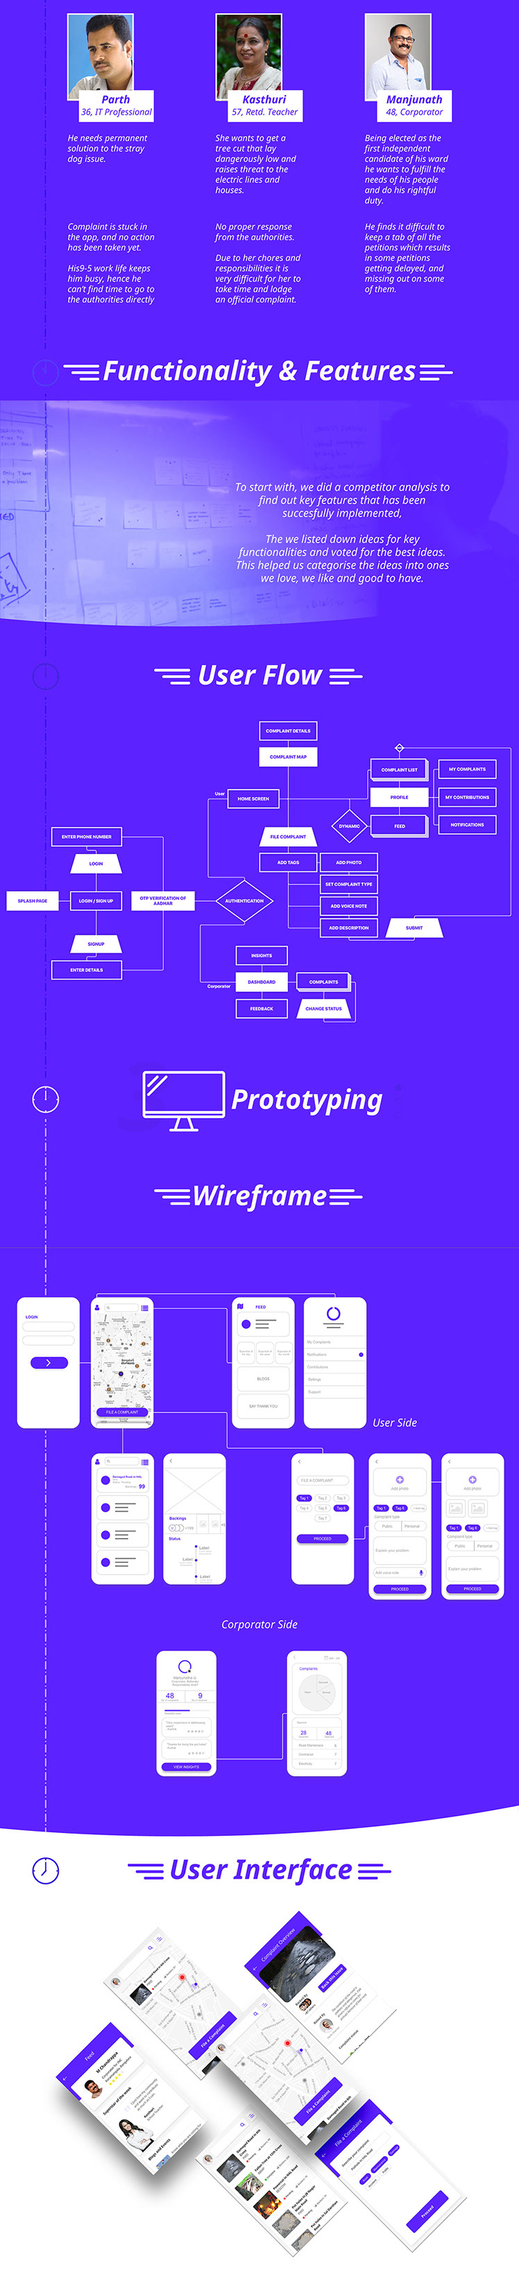
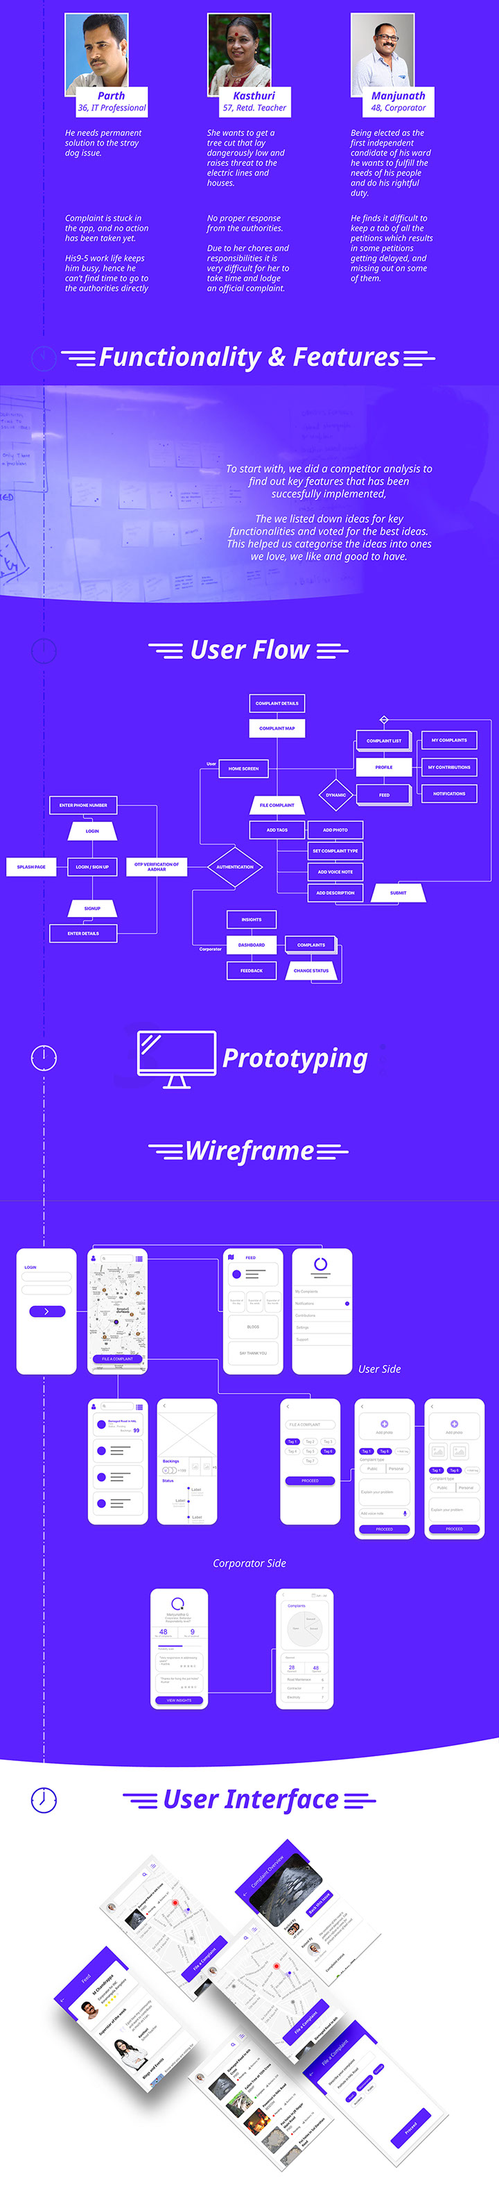
DHWANI update

diff --git a/dhwani.html b/dhwani.html
@@ -19,11 +19,11 @@ if(typeof Muse == "undefined") window.Muse = {}; window.Muse.assets = {"required
   <!-- CSS -->
   <link rel="stylesheet" type="text/css" href="css/site_global.css?crc=444006867"/>
   <link rel="stylesheet" type="text/css" href="css/master_projects.css?crc=3852109067"/>
-  <link rel="stylesheet" type="text/css" href="css/dhwani.css?crc=375365956" id="pagesheet"/>
+  <link rel="stylesheet" type="text/css" href="css/dhwani.css?crc=266295084" id="pagesheet"/>
   <!-- IE-only CSS -->
   <!--[if lt IE 9]>
   <link rel="stylesheet" type="text/css" href="css/nomq_preview_master_projects.css?crc=3824530138"/>
-  <link rel="stylesheet" type="text/css" href="css/nomq_dhwani.css?crc=4198243107" id="nomq_pagesheet"/>
+  <link rel="stylesheet" type="text/css" href="css/nomq_dhwani.css?crc=292691231" id="nomq_pagesheet"/>
   <![endif]-->
     <!--HTML Widget code-->
   
@@ -54,21 +54,21 @@ if(typeof Muse == "undefined") window.Muse = {}; window.Muse.assets = {"required
        <img class="block temp_no_img_src" id="u35457_img" data-orig-src="images/siyan-dhwani-2-crop-u35457.jpg?crc=478514797" alt="" data-heightwidthratio="4.395" data-image-width="1800" data-image-height="7911" src="images/blank.gif?crc=4208392903"/>
       </div>
      </div>
-     <div class="clearfix colelem" id="u36091"><!-- group -->
-      <div class="rounded-corners clip_frame grpelem" id="u35469"><!-- image -->
-       <img class="block temp_no_img_src" id="u35469_img" data-orig-src="images/siyan-dhwani-3-crop-u35469.jpg?crc=355542005" alt="" data-heightwidthratio="2.0566666666666666" data-image-width="1800" data-image-height="3702" src="images/blank.gif?crc=4208392903"/>
+     <div class="clearfix colelem" id="u36933"><!-- group -->
+      <div class="clip_frame grpelem" id="u36882"><!-- image -->
+       <img class="block temp_no_img_src" id="u36882_img" data-orig-src="images/siyan-dhwani-3-1-crop-u36882.jpg?crc=111417723" alt="" data-heightwidthratio="2.3516666666666666" data-image-width="1800" data-image-height="4233" src="images/blank.gif?crc=4208392903"/>
       </div>
       <div class="clip_frame grpelem" id="u35496"><!-- image -->
        <img class="block temp_no_img_src" id="u35496_img" data-orig-src="images/animation-siyan-3.gif?crc=327924768" alt="" data-heightwidthratio="1.6004056795131847" data-image-width="493" data-image-height="789" src="images/blank.gif?crc=4208392903"/>
       </div>
-      <div class="clip_frame grpelem" id="u35507"><!-- image -->
-       <img class="block temp_no_img_src" id="u35507_img" data-orig-src="images/animation-siyan-2.gif?crc=87351778" alt="" data-heightwidthratio="1.6" data-image-width="500" data-image-height="800" src="images/blank.gif?crc=4208392903"/>
-      </div>
       <div class="clip_frame grpelem" id="u35516"><!-- image -->
        <img class="block temp_no_img_src" id="u35516_img" data-orig-src="images/animation-siyan-4.gif?crc=4252287175" alt="" data-heightwidthratio="1.6" data-image-width="500" data-image-height="800" src="images/blank.gif?crc=4208392903"/>
       </div>
+      <div class="clip_frame grpelem" id="u35507"><!-- image -->
+       <img class="block temp_no_img_src" id="u35507_img" data-orig-src="images/animation-siyan-2.gif?crc=87351778" alt="" data-heightwidthratio="1.6" data-image-width="500" data-image-height="800" src="images/blank.gif?crc=4208392903"/>
+      </div>
      </div>
-     <div class="verticalspacer" data-offset-top="19464" data-content-above-spacer="19463" data-content-below-spacer="49" data-sizePolicy="fixed" data-pintopage="page_fixedLeft"></div>
+     <div class="verticalspacer" data-offset-top="19995" data-content-above-spacer="19994" data-content-below-spacer="49" data-sizePolicy="fixed" data-pintopage="page_fixedLeft"></div>
     </div>
    </div>
   </div>
@@ -78,26 +78,24 @@ if(typeof Muse == "undefined") window.Muse = {}; window.Muse.assets = {"required
     <div class="rounded-corners clip_frame colelem temp_no_id" data-orig-id="u36060"><!-- image -->
      <img class="block temp_no_id temp_no_img_src" data-orig-src="images/siyan-dhwani-1-crop-u360602.jpg?crc=231077618" alt="" data-heightwidthratio="4.348888888888889" data-image-width="1350" data-image-height="5871" data-orig-id="u36060_img" src="images/blank.gif?crc=4208392903"/>
     </div>
-    <div class="clearfix colelem" id="pu35457"><!-- group -->
-     <div class="clip_frame grpelem temp_no_id" data-orig-id="u35457"><!-- image -->
-      <img class="block temp_no_id temp_no_img_src" data-orig-src="images/siyan-dhwani-2-crop-u354572.jpg?crc=3820100597" alt="" data-heightwidthratio="4.395555555555555" data-image-width="1350" data-image-height="5934" data-orig-id="u35457_img" src="images/blank.gif?crc=4208392903"/>
+    <div class="clip_frame colelem temp_no_id" data-orig-id="u35457"><!-- image -->
+     <img class="block temp_no_id temp_no_img_src" data-orig-src="images/siyan-dhwani-2-crop-u354572.jpg?crc=3820100597" alt="" data-heightwidthratio="4.395555555555555" data-image-width="1350" data-image-height="5934" data-orig-id="u35457_img" src="images/blank.gif?crc=4208392903"/>
+    </div>
+    <div class="clearfix colelem temp_no_id" data-orig-id="u36933"><!-- group -->
+     <div class="clip_frame grpelem temp_no_id" data-orig-id="u36882"><!-- image -->
+      <img class="block temp_no_id temp_no_img_src" data-orig-src="images/siyan-dhwani-3-1-crop-u368822.jpg?crc=420097442" alt="" data-heightwidthratio="2.3518518518518516" data-image-width="1350" data-image-height="3175" data-orig-id="u36882_img" src="images/blank.gif?crc=4208392903"/>
      </div>
-     <div class="clearfix grpelem temp_no_id" data-orig-id="u36091"><!-- group -->
-      <div class="rounded-corners clip_frame grpelem temp_no_id" data-orig-id="u35469"><!-- image -->
-       <img class="block temp_no_id temp_no_img_src" data-orig-src="images/siyan-dhwani-31350x2776.jpg?crc=4002915526" alt="" data-heightwidthratio="2.0562962962962965" data-image-width="1350" data-image-height="2776" data-orig-id="u35469_img" src="images/blank.gif?crc=4208392903"/>
-      </div>
-      <div class="clip_frame grpelem temp_no_id" data-orig-id="u35496"><!-- image -->
-       <img class="block temp_no_id temp_no_img_src" data-orig-src="images/animation-siyan-3.gif?crc=327924768" alt="" data-heightwidthratio="1.598314606741573" data-image-width="356" data-image-height="569" data-orig-id="u35496_img" src="images/blank.gif?crc=4208392903"/>
-      </div>
-      <div class="clip_frame grpelem temp_no_id" data-orig-id="u35507"><!-- image -->
-       <img class="block temp_no_id temp_no_img_src" data-orig-src="images/animation-siyan-2.gif?crc=87351778" alt="" data-heightwidthratio="1.6011080332409973" data-image-width="361" data-image-height="578" data-orig-id="u35507_img" src="images/blank.gif?crc=4208392903"/>
-      </div>
-      <div class="clip_frame grpelem temp_no_id" data-orig-id="u35516"><!-- image -->
-       <img class="block temp_no_id temp_no_img_src" data-orig-src="images/animation-siyan-4.gif?crc=4252287175" alt="" data-heightwidthratio="1.6011080332409973" data-image-width="361" data-image-height="578" data-orig-id="u35516_img" src="images/blank.gif?crc=4208392903"/>
-      </div>
+     <div class="clip_frame grpelem temp_no_id" data-orig-id="u35496"><!-- image -->
+      <img class="block temp_no_id temp_no_img_src" data-orig-src="images/animation-siyan-3.gif?crc=327924768" alt="" data-heightwidthratio="1.598314606741573" data-image-width="356" data-image-height="569" data-orig-id="u35496_img" src="images/blank.gif?crc=4208392903"/>
+     </div>
+     <div class="clip_frame grpelem temp_no_id" data-orig-id="u35516"><!-- image -->
+      <img class="block temp_no_id temp_no_img_src" data-orig-src="images/animation-siyan-4.gif?crc=4252287175" alt="" data-heightwidthratio="1.6011080332409973" data-image-width="361" data-image-height="578" data-orig-id="u35516_img" src="images/blank.gif?crc=4208392903"/>
+     </div>
+     <div class="clip_frame grpelem temp_no_id" data-orig-id="u35507"><!-- image -->
+      <img class="block temp_no_id temp_no_img_src" data-orig-src="images/animation-siyan-2.gif?crc=87351778" alt="" data-heightwidthratio="1.6011080332409973" data-image-width="361" data-image-height="578" data-orig-id="u35507_img" src="images/blank.gif?crc=4208392903"/>
      </div>
     </div>
-    <div class="verticalspacer" data-offset-top="14619" data-content-above-spacer="14618" data-content-below-spacer="19" data-sizePolicy="fixed" data-pintopage="page_fixedLeft"></div>
+    <div class="verticalspacer" data-offset-top="15062" data-content-above-spacer="15062" data-content-below-spacer="19" data-sizePolicy="fixed" data-pintopage="page_fixedLeft"></div>
    </div>
   </div>
   <div class="breakpoint" id="bp_960" data-min-width="769" data-max-width="960"><!-- responsive breakpoint node -->
@@ -110,21 +108,21 @@ if(typeof Muse == "undefined") window.Muse = {}; window.Muse.assets = {"required
      <div class="clip_frame colelem temp_no_id" data-orig-id="u35457"><!-- image -->
       <img class="block temp_no_id temp_no_img_src" data-orig-src="images/siyan-dhwani-2-crop-u354573.jpg?crc=26468564" alt="" data-heightwidthratio="4.395555555555555" data-image-width="900" data-image-height="3956" data-orig-id="u35457_img" src="images/blank.gif?crc=4208392903"/>
      </div>
-     <div class="clearfix colelem temp_no_id" data-orig-id="u36091"><!-- group -->
-      <div class="rounded-corners clip_frame grpelem temp_no_id" data-orig-id="u35469"><!-- image -->
-       <img class="block temp_no_id temp_no_img_src" data-orig-src="images/siyan-dhwani-3900x1851.jpg?crc=4269956103" alt="" data-heightwidthratio="2.0566666666666666" data-image-width="900" data-image-height="1851" data-orig-id="u35469_img" src="images/blank.gif?crc=4208392903"/>
+     <div class="clearfix colelem temp_no_id" data-orig-id="u36933"><!-- group -->
+      <div class="clip_frame grpelem temp_no_id" data-orig-id="u36882"><!-- image -->
+       <img class="block temp_no_id temp_no_img_src" data-orig-src="images/siyan-dhwani-3-1-crop-u368823.jpg?crc=3763909581" alt="" data-heightwidthratio="2.352222222222222" data-image-width="900" data-image-height="2117" data-orig-id="u36882_img" src="images/blank.gif?crc=4208392903"/>
       </div>
       <div class="clip_frame grpelem temp_no_id" data-orig-id="u35496"><!-- image -->
        <img class="block temp_no_id temp_no_img_src" data-orig-src="images/animation-siyan-3.gif?crc=327924768" alt="" data-heightwidthratio="1.6033755274261603" data-image-width="237" data-image-height="380" data-orig-id="u35496_img" src="images/blank.gif?crc=4208392903"/>
       </div>
-      <div class="clip_frame grpelem temp_no_id" data-orig-id="u35507"><!-- image -->
-       <img class="block temp_no_id temp_no_img_src" data-orig-src="images/animation-siyan-2.gif?crc=87351778" alt="" data-heightwidthratio="1.5975103734439835" data-image-width="241" data-image-height="385" data-orig-id="u35507_img" src="images/blank.gif?crc=4208392903"/>
-      </div>
       <div class="clip_frame grpelem temp_no_id" data-orig-id="u35516"><!-- image -->
        <img class="block temp_no_id temp_no_img_src" data-orig-src="images/animation-siyan-4.gif?crc=4252287175" alt="" data-heightwidthratio="1.5975103734439835" data-image-width="241" data-image-height="385" data-orig-id="u35516_img" src="images/blank.gif?crc=4208392903"/>
       </div>
+      <div class="clip_frame grpelem temp_no_id" data-orig-id="u35507"><!-- image -->
+       <img class="block temp_no_id temp_no_img_src" data-orig-src="images/animation-siyan-2.gif?crc=87351778" alt="" data-heightwidthratio="1.5975103734439835" data-image-width="241" data-image-height="385" data-orig-id="u35507_img" src="images/blank.gif?crc=4208392903"/>
+      </div>
      </div>
-     <div class="verticalspacer" data-offset-top="11737" data-content-above-spacer="11736" data-content-below-spacer="11" data-sizePolicy="fixed" data-pintopage="page_fixedLeft"></div>
+     <div class="verticalspacer" data-offset-top="12002" data-content-above-spacer="12001" data-content-below-spacer="11" data-sizePolicy="fixed" data-pintopage="page_fixedLeft"></div>
     </div>
    </div>
   </div>
@@ -135,23 +133,23 @@ if(typeof Muse == "undefined") window.Muse = {}; window.Muse.assets = {"required
      <img class="block temp_no_id temp_no_img_src" data-orig-src="images/siyan-dhwani-1-crop-u360604.jpg?crc=3860886946" alt="" data-heightwidthratio="4.348611111111111" data-image-width="720" data-image-height="3131" data-orig-id="u36060_img" src="images/blank.gif?crc=4208392903"/>
     </div>
     <div class="clip_frame colelem temp_no_id" data-orig-id="u35457"><!-- image -->
-     <img class="block temp_no_id temp_no_img_src" data-orig-src="images/siyan-dhwani-2-crop-u354574.jpg?crc=3957740755" alt="" data-heightwidthratio="4.39572192513369" data-image-width="748" data-image-height="3288" data-orig-id="u35457_img" src="images/blank.gif?crc=4208392903"/>
+     <img class="block temp_no_id temp_no_img_src" data-orig-src="images/siyan-dhwani-2-crop-u354574.jpg?crc=321427869" alt="" data-heightwidthratio="4.395833333333333" data-image-width="720" data-image-height="3165" data-orig-id="u35457_img" src="images/blank.gif?crc=4208392903"/>
     </div>
-    <div class="clearfix colelem temp_no_id" data-orig-id="u36091"><!-- group -->
-     <div class="rounded-corners clip_frame grpelem temp_no_id" data-orig-id="u35469"><!-- image -->
-      <img class="block temp_no_id temp_no_img_src" data-orig-src="images/siyan-dhwani-3748x1539.jpg?crc=414083071" alt="" data-heightwidthratio="2.056149732620321" data-image-width="748" data-image-height="1538" data-orig-id="u35469_img" src="images/blank.gif?crc=4208392903"/>
+    <div class="clearfix colelem temp_no_id" data-orig-id="u36933"><!-- group -->
+     <div class="clip_frame grpelem temp_no_id" data-orig-id="u36882"><!-- image -->
+      <img class="block temp_no_id temp_no_img_src" data-orig-src="images/siyan-dhwani-3-1-crop-u368824.jpg?crc=187348278" alt="" data-heightwidthratio="2.3513888888888888" data-image-width="720" data-image-height="1693" data-orig-id="u36882_img" src="images/blank.gif?crc=4208392903"/>
      </div>
      <div class="clip_frame grpelem temp_no_id" data-orig-id="u35496"><!-- image -->
       <img class="block temp_no_id temp_no_img_src" data-orig-src="images/animation-siyan-3.gif?crc=327924768" alt="" data-heightwidthratio="1.6040609137055837" data-image-width="197" data-image-height="316" data-orig-id="u35496_img" src="images/blank.gif?crc=4208392903"/>
      </div>
-     <div class="clip_frame grpelem temp_no_id" data-orig-id="u35507"><!-- image -->
-      <img class="block temp_no_id temp_no_img_src" data-orig-src="images/animation-siyan-2.gif?crc=87351778" alt="" data-heightwidthratio="1.6" data-image-width="200" data-image-height="320" data-orig-id="u35507_img" src="images/blank.gif?crc=4208392903"/>
-     </div>
      <div class="clip_frame grpelem temp_no_id" data-orig-id="u35516"><!-- image -->
       <img class="block temp_no_id temp_no_img_src" data-orig-src="images/animation-siyan-4.gif?crc=4252287175" alt="" data-heightwidthratio="1.6" data-image-width="200" data-image-height="320" data-orig-id="u35516_img" src="images/blank.gif?crc=4208392903"/>
      </div>
+     <div class="clip_frame grpelem temp_no_id" data-orig-id="u35507"><!-- image -->
+      <img class="block temp_no_id temp_no_img_src" data-orig-src="images/animation-siyan-2.gif?crc=87351778" alt="" data-heightwidthratio="1.6" data-image-width="200" data-image-height="320" data-orig-id="u35507_img" src="images/blank.gif?crc=4208392903"/>
+     </div>
     </div>
-    <div class="verticalspacer" data-offset-top="8018" data-content-above-spacer="8017" data-content-below-spacer="10" data-sizePolicy="fixed" data-pintopage="page_fixedLeft"></div>
+    <div class="verticalspacer" data-offset-top="8050" data-content-above-spacer="8049" data-content-below-spacer="0" data-sizePolicy="fixed" data-pintopage="page_fixedLeft"></div>
    </div>
   </div>
   <div class="breakpoint" id="bp_480" data-min-width="321" data-max-width="480"><!-- responsive breakpoint node -->
@@ -162,24 +160,24 @@ if(typeof Muse == "undefined") window.Muse = {}; window.Muse.assets = {"required
       <img class="block temp_no_id temp_no_img_src" data-orig-src="images/siyan-dhwani-1-crop-u360605.jpg?crc=3996313336" alt="" data-heightwidthratio="4.348888888888889" data-image-width="450" data-image-height="1957" data-orig-id="u36060_img" src="images/blank.gif?crc=4208392903"/>
      </div>
      <div class="clip_frame grpelem temp_no_id" data-orig-id="u35457"><!-- image -->
-      <img class="block temp_no_id temp_no_img_src" data-orig-src="images/siyan-dhwani-2-crop-u354575.jpg?crc=4189182908" alt="" data-heightwidthratio="4.391025641025641" data-image-width="468" data-image-height="2055" data-orig-id="u35457_img" src="images/blank.gif?crc=4208392903"/>
+      <img class="block temp_no_id temp_no_img_src" data-orig-src="images/siyan-dhwani-2-crop-u354575.jpg?crc=25384640" alt="" data-heightwidthratio="4.395555555555555" data-image-width="450" data-image-height="1978" data-orig-id="u35457_img" src="images/blank.gif?crc=4208392903"/>
      </div>
     </div>
-    <div class="clearfix colelem temp_no_id" data-orig-id="u36091"><!-- group -->
-     <div class="rounded-corners clip_frame grpelem temp_no_id" data-orig-id="u35469"><!-- image -->
-      <img class="block temp_no_id temp_no_img_src" data-orig-src="images/siyan-dhwani-3468x962.jpg?crc=4010558170" alt="" data-heightwidthratio="2.0534188034188032" data-image-width="468" data-image-height="961" data-orig-id="u35469_img" src="images/blank.gif?crc=4208392903"/>
+    <div class="clearfix colelem temp_no_id" data-orig-id="u36933"><!-- group -->
+     <div class="clip_frame grpelem temp_no_id" data-orig-id="u36882"><!-- image -->
+      <img class="block temp_no_id temp_no_img_src" data-orig-src="images/siyan-dhwani-3-1450x1059.jpg?crc=3815587152" alt="" data-heightwidthratio="2.351111111111111" data-image-width="450" data-image-height="1058" data-orig-id="u36882_img" src="images/blank.gif?crc=4208392903"/>
      </div>
      <div class="clip_frame grpelem temp_no_id" data-orig-id="u35496"><!-- image -->
       <img class="block temp_no_id temp_no_img_src" data-orig-src="images/animation-siyan-3.gif?crc=327924768" alt="" data-heightwidthratio="1.6016260162601625" data-image-width="123" data-image-height="197" data-orig-id="u35496_img" src="images/blank.gif?crc=4208392903"/>
      </div>
-     <div class="clip_frame grpelem temp_no_id" data-orig-id="u35507"><!-- image -->
-      <img class="block temp_no_id temp_no_img_src" data-orig-src="images/animation-siyan-2.gif?crc=87351778" alt="" data-heightwidthratio="1.6" data-image-width="125" data-image-height="200" data-orig-id="u35507_img" src="images/blank.gif?crc=4208392903"/>
-     </div>
      <div class="clip_frame grpelem temp_no_id" data-orig-id="u35516"><!-- image -->
       <img class="block temp_no_id temp_no_img_src" data-orig-src="images/animation-siyan-4.gif?crc=4252287175" alt="" data-heightwidthratio="1.6" data-image-width="125" data-image-height="200" data-orig-id="u35516_img" src="images/blank.gif?crc=4208392903"/>
      </div>
+     <div class="clip_frame grpelem temp_no_id" data-orig-id="u35507"><!-- image -->
+      <img class="block temp_no_id temp_no_img_src" data-orig-src="images/animation-siyan-2.gif?crc=87351778" alt="" data-heightwidthratio="1.6" data-image-width="125" data-image-height="200" data-orig-id="u35507_img" src="images/blank.gif?crc=4208392903"/>
+     </div>
     </div>
-    <div class="verticalspacer" data-offset-top="5011" data-content-above-spacer="5010" data-content-below-spacer="9" data-sizePolicy="fixed" data-pintopage="page_fixedLeft"></div>
+    <div class="verticalspacer" data-offset-top="5032" data-content-above-spacer="5031" data-content-below-spacer="9" data-sizePolicy="fixed" data-pintopage="page_fixedLeft"></div>
    </div>
   </div>
   <div class="breakpoint" id="bp_320" data-max-width="320"><!-- responsive breakpoint node -->
@@ -193,21 +191,21 @@ if(typeof Muse == "undefined") window.Muse = {}; window.Muse.assets = {"required
       <img class="block temp_no_id temp_no_img_src" data-orig-src="images/siyan-dhwani-2-crop-u354576.jpg?crc=225251879" alt="" data-heightwidthratio="4.391025641025641" data-image-width="312" data-image-height="1370" data-orig-id="u35457_img" src="images/blank.gif?crc=4208392903"/>
      </div>
     </div>
-    <div class="clearfix colelem temp_no_id" data-orig-id="u36091"><!-- group -->
-     <div class="rounded-corners clip_frame grpelem temp_no_id" data-orig-id="u35469"><!-- image -->
-      <img class="block temp_no_id temp_no_img_src" data-orig-src="images/siyan-dhwani-3312x641.jpg?crc=3997512535" alt="" data-heightwidthratio="2.0544871794871793" data-image-width="312" data-image-height="641" data-orig-id="u35469_img" src="images/blank.gif?crc=4208392903"/>
+    <div class="clearfix colelem temp_no_id" data-orig-id="u36933"><!-- group -->
+     <div class="clip_frame grpelem temp_no_id" data-orig-id="u36882"><!-- image -->
+      <img class="block temp_no_id temp_no_img_src" data-orig-src="images/siyan-dhwani-3-1300x706.jpg?crc=281623946" alt="" data-heightwidthratio="2.35" data-image-width="300" data-image-height="705" data-orig-id="u36882_img" src="images/blank.gif?crc=4208392903"/>
      </div>
      <div class="clip_frame grpelem temp_no_id" data-orig-id="u35496"><!-- image -->
       <img class="block temp_no_id temp_no_img_src" data-orig-src="images/animation-siyan-3.gif?crc=327924768" alt="" data-heightwidthratio="1.5975609756097562" data-image-width="82" data-image-height="131" data-orig-id="u35496_img" src="images/blank.gif?crc=4208392903"/>
      </div>
-     <div class="clip_frame grpelem temp_no_id" data-orig-id="u35507"><!-- image -->
-      <img class="block temp_no_id temp_no_img_src" data-orig-src="images/animation-siyan-2.gif?crc=87351778" alt="" data-heightwidthratio="1.6024096385542168" data-image-width="83" data-image-height="133" data-orig-id="u35507_img" src="images/blank.gif?crc=4208392903"/>
-     </div>
      <div class="clip_frame grpelem temp_no_id" data-orig-id="u35516"><!-- image -->
       <img class="block temp_no_id temp_no_img_src" data-orig-src="images/animation-siyan-4.gif?crc=4252287175" alt="" data-heightwidthratio="1.6024096385542168" data-image-width="83" data-image-height="133" data-orig-id="u35516_img" src="images/blank.gif?crc=4208392903"/>
      </div>
+     <div class="clip_frame grpelem temp_no_id" data-orig-id="u35507"><!-- image -->
+      <img class="block temp_no_id temp_no_img_src" data-orig-src="images/animation-siyan-2.gif?crc=87351778" alt="" data-heightwidthratio="1.6024096385542168" data-image-width="83" data-image-height="133" data-orig-id="u35507_img" src="images/blank.gif?crc=4208392903"/>
+     </div>
     </div>
-    <div class="verticalspacer" data-offset-top="3354" data-content-above-spacer="3353" data-content-below-spacer="9" data-sizePolicy="fixed" data-pintopage="page_fixedLeft"></div>
+    <div class="verticalspacer" data-offset-top="3418" data-content-above-spacer="3418" data-content-below-spacer="15" data-sizePolicy="fixed" data-pintopage="page_fixedLeft"></div>
    </div>
   </div>
   <!-- JS includes -->

diff --git a/css/dhwani.css b/css/dhwani.css
@@ -1,1 +1,1 @@
-.version.dhwani{color:#000016;background-color:#5FA144;}#page{background-color:transparent;border-color:#000000;background-image:none;margin-left:auto;margin-right:auto;border-width:0px;width:100%;z-index:1;}#u36178{width:60px;z-index:2;position:relative;min-height:60px;}#u36060{border-radius:10px 10px 0px 0px ;z-index:3;background-color:transparent;position:relative;}#u36060 .clip_frame{-webkit-border-radius:10px 10px 0px 0px;}#u35457{background-color:transparent;z-index:5;position:relative;}#u36091{border-color:transparent;border-width:0px;background-color:transparent;z-index:7;position:relative;}#u35469{border-radius:0px 0px 10px 10px ;z-index:8;margin-right:-10000px;width:100%;background-color:transparent;position:relative;}#u35469 .clip_frame{-webkit-border-radius:0px 0px 10px 10px;}#u35496{margin-right:-10000px;background-color:transparent;z-index:10;position:relative;}#u35507{margin-right:-10000px;background-color:transparent;z-index:12;position:relative;}#u35516{margin-right:-10000px;background-color:transparent;z-index:14;position:relative;}#u36060_img,#u35457_img,#u35469_img,#u35496_img,#u35507_img,#u35516_img{width:100%;}.html{background-color:#F2F2F2;}body{position:relative;}@media (min-width: 1441px), print{#muse_css_mq{background-color:#FFFFFF;}#bp_infinity.active{display:block;}#page{min-height:709.6951807228943px;padding-bottom:0px;max-width:1920px;}#page_position_content{margin-top:-78px;width:100%;}#u36178{margin-left:48.86%;}#pu36060{z-index:3;margin-top:78px;width:93.75%;margin-left:3.13%;}#u36060{margin-right:-10000px;width:100%;}#u35457{margin-right:-10000px;margin-top:7792px;width:100%;}#u36091{width:93.75%;margin-left:3.13%;}#u35496{margin-top:1069px;width:27.39%;left:51.5%;}#u35507{margin-top:292px;width:27.78%;left:23.73%;}#u35516{margin-top:1923px;width:27.78%;left:23.73%;}.css_verticalspacer .verticalspacer{height:calc(100vh - 19512px);}body{padding-bottom:50px;}}@media (min-width: 961px) and (max-width: 1440px){#muse_css_mq{background-color:#0005a0;}#bp_1440.active{display:block;}#page{min-height:777px;max-width:1440px;}#u36178{margin-left:51.74%;}#u36060{width:93.75%;margin-left:3.13%;}#pu35457{z-index:5;width:93.75%;margin-left:3.13%;}#u35457{margin-right:-10000px;width:100%;}#u36091{margin-right:-10000px;margin-top:5913px;width:100%;}#u35496{margin-top:836px;width:26.38%;left:49.56%;}#u35507{margin-top:213px;width:26.75%;left:22.82%;}#u35516{margin-top:1369px;width:26.75%;left:22.82%;}.css_verticalspacer .verticalspacer{height:calc(100vh - 14637px);}body{overflow-x:hidden;padding-bottom:20px;}}@media (min-width: 769px) and (max-width: 960px){#muse_css_mq{background-color:#0003c0;}#bp_960.active{display:block;}#page{min-height:710px;max-width:960px;}#page_position_content{margin-top:-66px;width:100%;}#u36178{margin-left:39.07%;}#u36060{margin-top:66px;width:93.75%;margin-left:3.13%;}#u35457{width:93.75%;margin-left:3.13%;}#u36091{margin-top:1958px;width:93.75%;margin-left:3.13%;}#u35496{margin-top:836px;width:26.34%;left:49.56%;}#u35507{margin-top:213px;width:26.78%;left:22.89%;}#u35516{margin-top:1369px;width:26.78%;left:22.78%;}.css_verticalspacer .verticalspacer{height:calc(100vh - 11747px);}body{overflow-x:hidden;padding-bottom:12px;}}@media (min-width: 481px) and (max-width: 768px){#muse_css_mq{background-color:#000300;}#bp_768.active{display:block;}#page{min-height:710px;max-width:768px;}#u36178{margin-left:51.7%;}#u36060{width:93.75%;margin-left:3.13%;}#u35457,#u36091{margin-top:1px;width:97.4%;margin-left:1.31%;}#u35496{margin-top:408px;width:26.34%;left:49.6%;}#u35507{margin-top:111px;width:26.74%;left:22.87%;}#u35516{margin-top:752px;width:26.74%;left:22.87%;}.css_verticalspacer .verticalspacer{height:calc(100vh - 8027px);}body{overflow-x:hidden;padding-bottom:11px;}}@media (min-width: 321px) and (max-width: 480px){#muse_css_mq{background-color:#0001e0;}#bp_480.active{display:block;}#page{min-height:454.37022424461793px;padding-bottom:1px;max-width:480px;}#u36178{margin-left:51.67%;}#pu36060{z-index:3;width:97.5%;margin-left:1.25%;}#u36060{margin-right:-10000px;width:96.16%;left:1.93%;}#u35457{margin-right:-10000px;margin-top:1941px;width:100%;}#u36091{top:-6px;margin-bottom:-6px;width:97.5%;margin-left:1.25%;}#u35496{margin-top:279px;width:26.29%;left:49.58%;}#u35507{margin-top:72px;width:26.71%;left:22.87%;}#u35516{margin-top:473px;width:26.71%;left:22.87%;}.css_verticalspacer .verticalspacer{height:calc(100vh - 5019px);}body{overflow-x:hidden;padding-bottom:10px;}}@media (max-width: 320px){#muse_css_mq{background-color:#000140;}#bp_320.active{display:block;}#page{min-height:680px;max-width:320px;}#u36178{margin-left:51.88%;}#pu36060{z-index:3;width:97.5%;margin-left:1.25%;}#u36060{margin-right:-10000px;width:96.16%;left:1.93%;}#u35457{margin-right:-10000px;margin-top:1283px;width:100%;}#u36091{width:97.5%;margin-left:1.25%;}#u35496{margin-top:178px;width:26.29%;left:49.68%;}#u35507{margin-top:51px;width:26.61%;left:22.76%;}#u35516{margin-top:312px;width:26.61%;left:22.76%;}.css_verticalspacer .verticalspacer{height:calc(100vh - 3362px);}body{overflow-x:hidden;min-width:320px;padding-bottom:10px;}}
+.version.dhwani{color:#00000F;background-color:#DF572C;}#page{background-color:transparent;border-color:#000000;background-image:none;margin-left:auto;margin-right:auto;border-width:0px;width:100%;z-index:1;}#u36178{width:60px;z-index:2;position:relative;min-height:60px;}#u36060{border-radius:10px 10px 0px 0px ;z-index:3;background-color:transparent;position:relative;}#u36060 .clip_frame{-webkit-border-radius:10px 10px 0px 0px;}#u35457{background-color:transparent;z-index:5;position:relative;}#u36933{border-color:transparent;background-color:transparent;border-width:0px;width:93.75%;z-index:7;position:relative;}#u36882{margin-right:-10000px;background-color:transparent;z-index:8;position:relative;width:100%;}#u35496{margin-right:-10000px;background-color:transparent;z-index:10;position:relative;}#u35516{margin-right:-10000px;background-color:transparent;z-index:12;position:relative;}#u35507{margin-right:-10000px;background-color:transparent;z-index:14;position:relative;}#u36060_img,#u35457_img,#u36882_img,#u35496_img,#u35516_img,#u35507_img{width:100%;}.html{background-color:#F2F2F2;}body{position:relative;}@media (min-width: 1441px), print{#muse_css_mq{background-color:#FFFFFF;}#bp_infinity.active{display:block;}#page{min-height:709.5734213547657px;padding-bottom:0px;max-width:1920px;}#page_position_content{margin-top:-78px;width:100%;}#u36178{margin-left:48.86%;}#pu36060{z-index:3;margin-top:78px;width:93.75%;margin-left:3.13%;}#u36060{margin-right:-10000px;width:100%;}#u35457{margin-right:-10000px;margin-top:7792px;width:100%;}#u36933{margin-left:3.13%;}#u35496{margin-top:2128px;width:27.39%;left:58.17%;}#u35516{margin-top:1207px;width:27.78%;left:57.78%;}#u35507{margin-top:355px;width:27.78%;left:57.78%;}.css_verticalspacer .verticalspacer{height:calc(100vh - 20043px);}body{padding-bottom:50px;}}@media (min-width: 961px) and (max-width: 1440px){#muse_css_mq{background-color:#0005a0;}#bp_1440.active{display:block;}#page{min-height:776.8675660160752px;padding-bottom:0px;max-width:1440px;}#u36178{margin-left:51.74%;}#u36060,#u35457{width:93.75%;margin-left:3.13%;}#u36933{margin-top:25px;margin-left:3.13%;}#u35496{margin-top:1629px;width:26.38%;left:53.86%;}#u35516{margin-top:915px;width:26.75%;left:53.86%;}#u35507{margin-top:292px;width:26.75%;left:53.86%;}.css_verticalspacer .verticalspacer{height:calc(100vh - 15081px);}body{overflow-x:hidden;padding-bottom:20px;}}@media (min-width: 769px) and (max-width: 960px){#muse_css_mq{background-color:#0003c0;}#bp_960.active{display:block;}#page{min-height:709.4117106773829px;padding-bottom:1px;max-width:960px;}#page_position_content{margin-top:-66px;width:100%;}#u36178{margin-left:39.07%;}#u36060{margin-top:66px;width:93.75%;margin-left:3.13%;}#u35457{margin-top:1957px;width:93.75%;margin-left:3.13%;}#u36933{margin-left:3.13%;}#u35496{margin-top:1083px;width:26.34%;left:53.89%;}#u35516{margin-top:618px;width:26.78%;left:53.89%;}#u35507{margin-top:256px;width:26.78%;left:53.89%;}.css_verticalspacer .verticalspacer{height:calc(100vh - 12012px);}body{overflow-x:hidden;padding-bottom:12px;}}@media (min-width: 481px) and (max-width: 768px){#muse_css_mq{background-color:#000300;}#bp_768.active{display:block;}#page{min-height:8049px;max-width:768px;}#u36178{margin-left:51.7%;}#u36060{width:93.75%;margin-left:3.13%;}#u35457{margin-top:1px;width:93.75%;margin-left:3.13%;}#u36933{margin-top:1px;margin-left:3.13%;}#u35496{margin-top:871px;width:27.37%;left:51.53%;}#u35516{margin-top:486px;width:27.78%;left:51.12%;}#u35507{margin-top:176px;width:27.78%;left:51.12%;}.css_verticalspacer .verticalspacer{height:calc(100vh - 8049px);}body{overflow-x:hidden;}}@media (min-width: 321px) and (max-width: 480px){#muse_css_mq{background-color:#0001e0;}#bp_480.active{display:block;}#page{min-height:455px;max-width:480px;}#u36178{margin-left:51.67%;}#pu36060{z-index:3;width:93.75%;margin-left:3.13%;}#u36060{margin-right:-10000px;width:100%;}#u35457{margin-right:-10000px;margin-top:1941px;width:100%;}#u36933{top:-5px;margin-bottom:-5px;margin-left:3.13%;}#u35496{margin-top:529px;width:27.34%;left:58.23%;}#u35516{margin-top:308px;width:27.78%;left:57.12%;}#u35507{margin-top:121px;width:27.78%;left:58.23%;}.css_verticalspacer .verticalspacer{height:calc(100vh - 5040px);}body{overflow-x:hidden;padding-bottom:10px;}}@media (max-width: 320px){#muse_css_mq{background-color:#000140;}#bp_320.active{display:block;}#page{min-height:3417.7039035591292px;padding-bottom:6.29609644087077px;max-width:320px;}#u36178{margin-left:51.88%;}#pu36060{z-index:3;width:97.5%;margin-left:1.25%;}#u36060{margin-right:-10000px;width:96.16%;left:1.93%;}#u35457{margin-right:-10000px;margin-top:1283px;width:100%;}#u36933{margin-left:2.5%;}#u35496{margin-top:213px;width:27.34%;left:53.34%;}#u35516{margin-top:363px;width:27.67%;left:53%;}#u35507{margin-top:70px;width:27.67%;left:53%;}.css_verticalspacer .verticalspacer{height:calc(100vh - 3433px);}body{overflow-x:hidden;min-width:320px;padding-bottom:10px;}}

diff --git a/css/nomq_dhwani.css b/css/nomq_dhwani.css
@@ -1,1 +1,1 @@
-#muse_css_mq{background-color:#FFFFFF;}#bp_infinity.active{display:block;}#page{min-height:709.6951807228943px;padding-bottom:0px;max-width:1920px;}#page_position_content{margin-top:-78px;width:100%;}#u36178{margin-left:48.86%;}#pu36060{z-index:3;margin-top:78px;width:93.75%;margin-left:3.13%;}#u36060{margin-right:-10000px;width:100%;}#u35457{margin-right:-10000px;margin-top:7792px;width:100%;}#u36091{width:93.75%;margin-left:3.13%;}#u35496{margin-top:1069px;width:27.39%;left:51.5%;}#u35507{margin-top:292px;width:27.78%;left:23.73%;}#u35516{margin-top:1923px;width:27.78%;left:23.73%;}.css_verticalspacer .verticalspacer{height:calc(100vh - 19512px);}body{padding-bottom:50px;}
+#muse_css_mq{background-color:#FFFFFF;}#bp_infinity.active{display:block;}#page{min-height:709.5734213547657px;padding-bottom:0px;max-width:1920px;}#page_position_content{margin-top:-78px;width:100%;}#u36178{margin-left:48.86%;}#pu36060{z-index:3;margin-top:78px;width:93.75%;margin-left:3.13%;}#u36060{margin-right:-10000px;width:100%;}#u35457{margin-right:-10000px;margin-top:7792px;width:100%;}#u36933{margin-left:3.13%;}#u35496{margin-top:2128px;width:27.39%;left:58.17%;}#u35516{margin-top:1207px;width:27.78%;left:57.78%;}#u35507{margin-top:355px;width:27.78%;left:57.78%;}.css_verticalspacer .verticalspacer{height:calc(100vh - 20043px);}body{padding-bottom:50px;}
